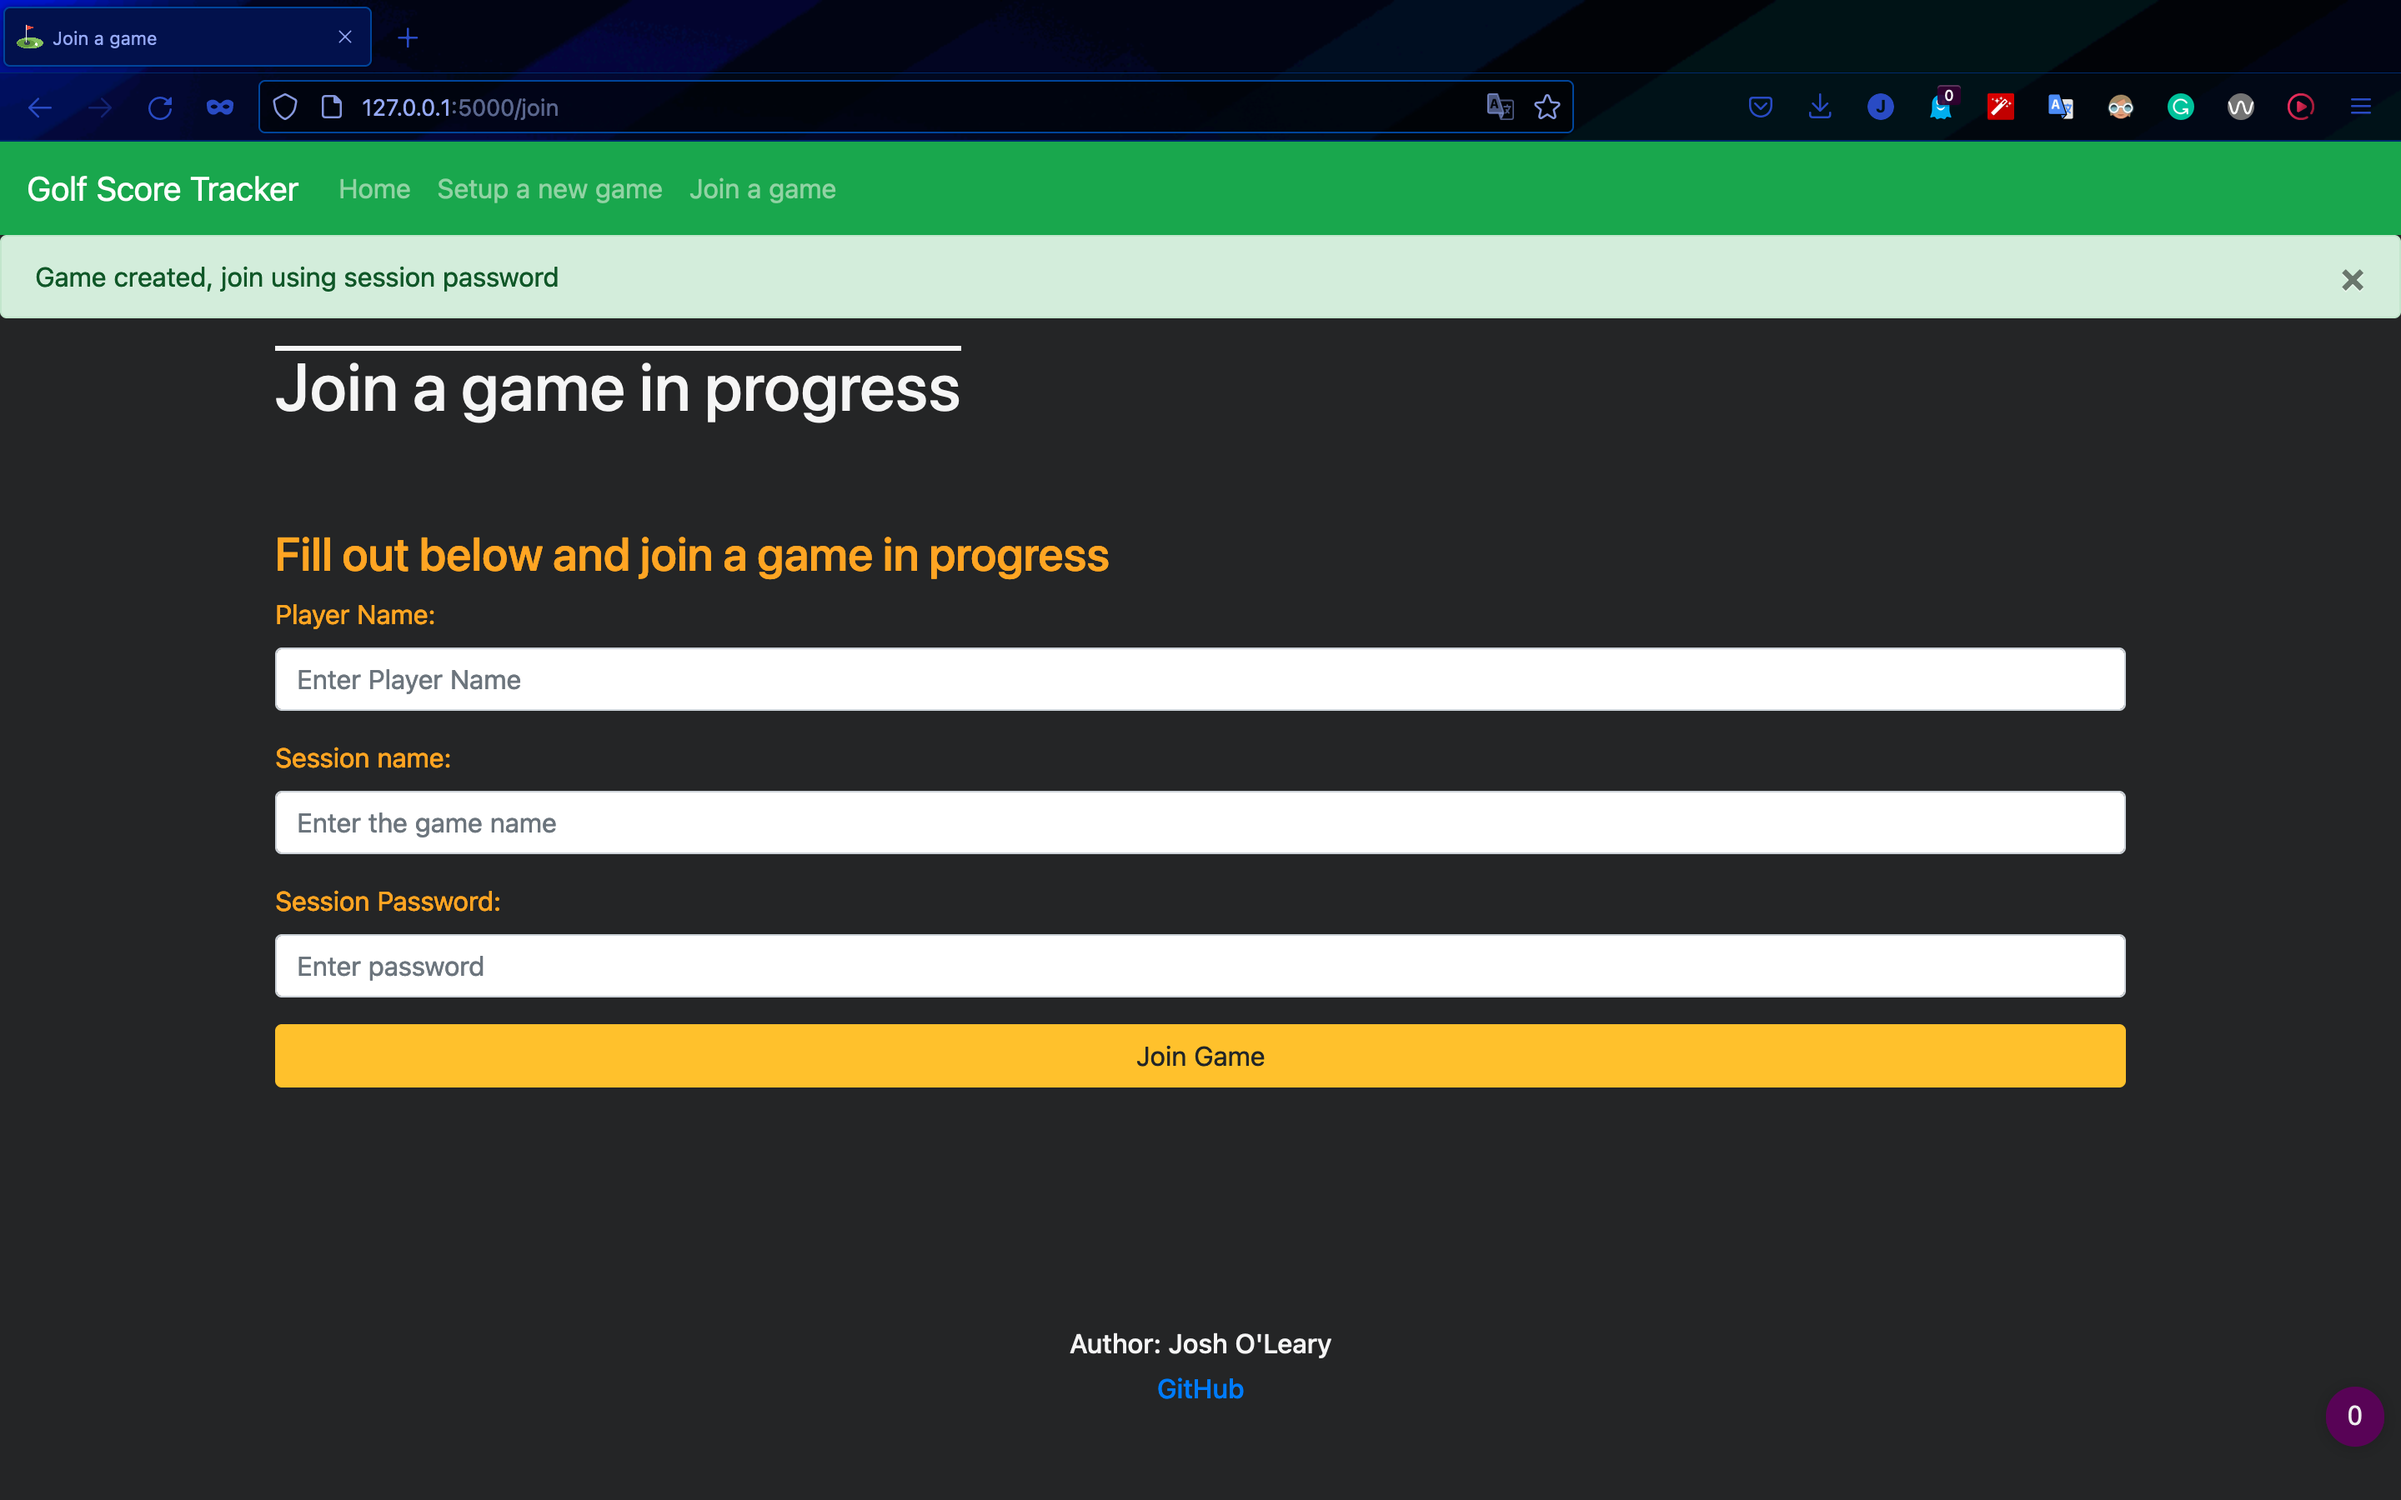
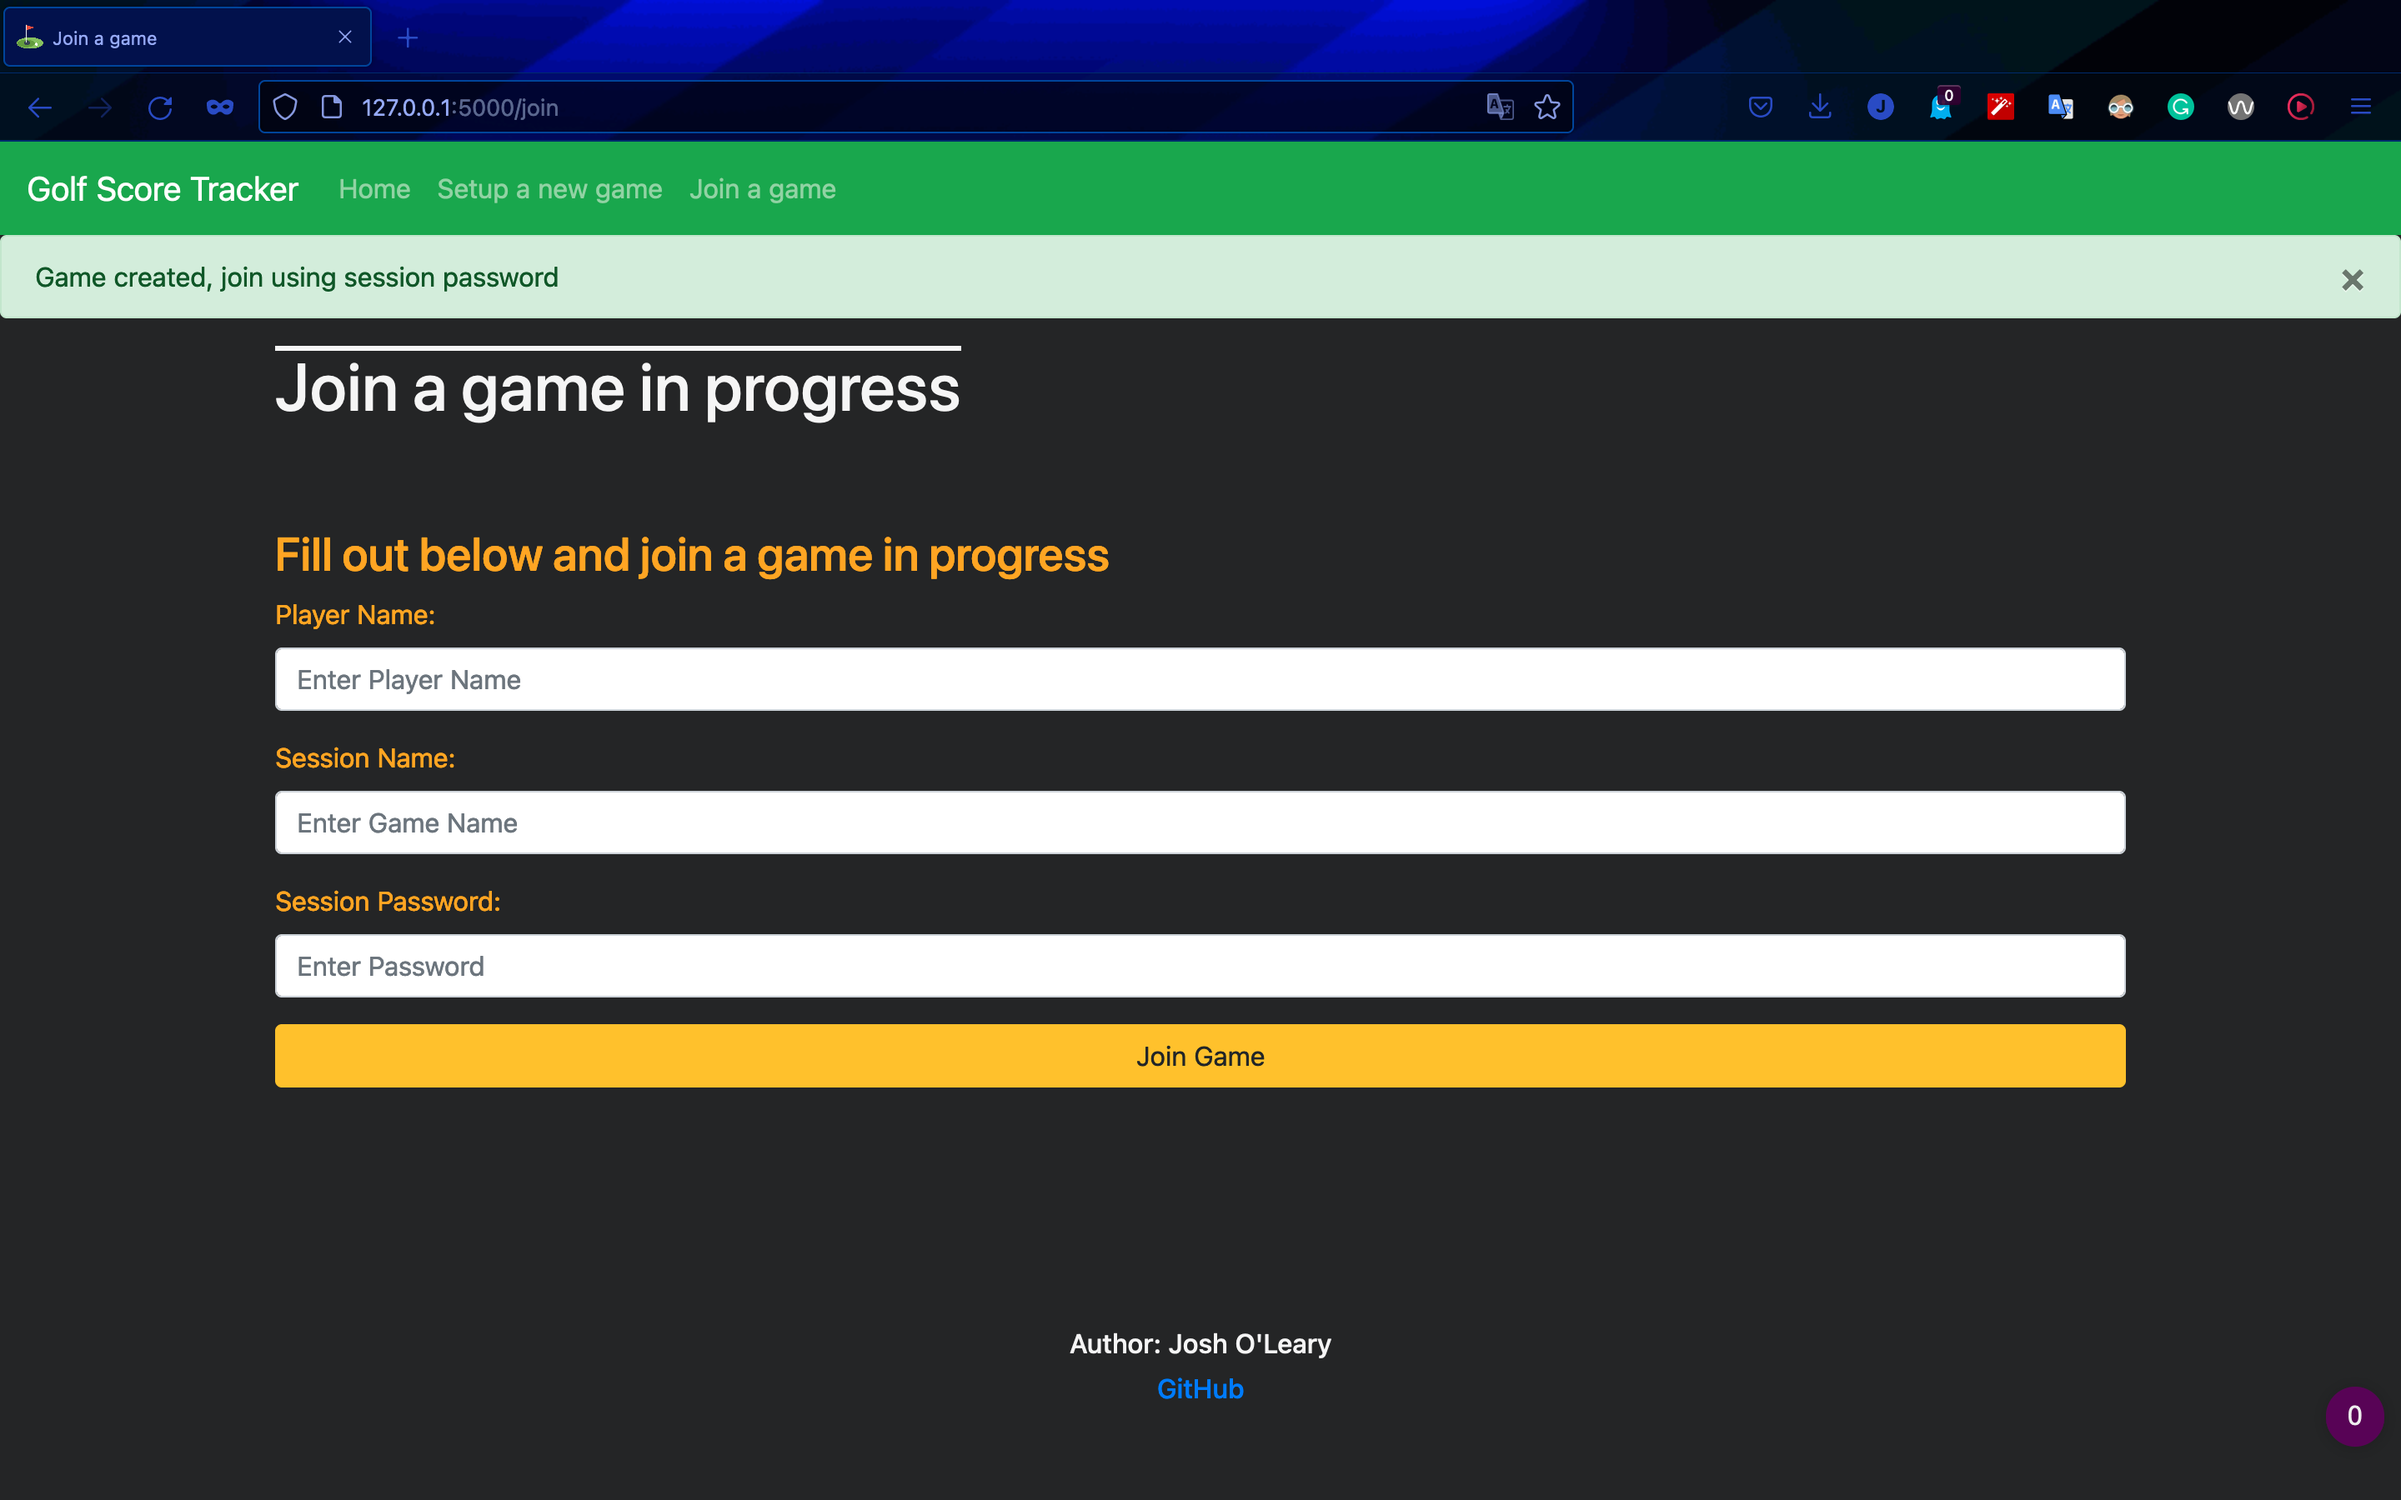
updated readme

Changed region(s): [[0.125, 0.0, 0.75, 0.0933], [0.0, 0.0, 0.0625, 0.0933], [0.1562, 0.4978, 0.2188, 0.56]]

diff --git a/golf/templates/join.html b/golf/templates/join.html
@@ -21,13 +21,13 @@ Join a game
             />
           </div>
           <div class="form-group">
-            <label for="gamename">Session name:</label>
+            <label for="gamename">Session Name:</label>
             <input
             type="text"
             class="form-control"
             id="gamename"
             name="gamename"
-            placeholder="Enter the game name"
+            placeholder="Enter Game Name"
             />
         </div>
           <div class="form-group">
@@ -37,7 +37,7 @@ Join a game
                 class="form-control"
                 id="spass"
                 name="spass"
-                placeholder="Enter password"
+                placeholder="Enter Password"
                 />
           </div>
           <button type="submit" class="btn btn-block btn-warning">Join Game</button>

diff --git a/golf/templates/setup.html b/golf/templates/setup.html
@@ -36,7 +36,7 @@ Set-up
             class="form-control"
             id="spass"
             name="spass"
-            placeholder="Set password"
+            placeholder="Set Password"
             />
         </div>
         <button type="submit" class="btn btn-block btn-primary">Start Game</button>

diff --git a/readme.md b/readme.md
@@ -18,11 +18,11 @@ This web app built using the python 'flask' web framework acts as a group scorec
 
 ### Setup Page
 
-![Setup](ss/Setup.png)
+![Setup](ss/setup.png)
 
 ### Join Page
 
-![Join](ss/Join.png)
+![Join](ss/join.png)
 
 ## Game Page
 
